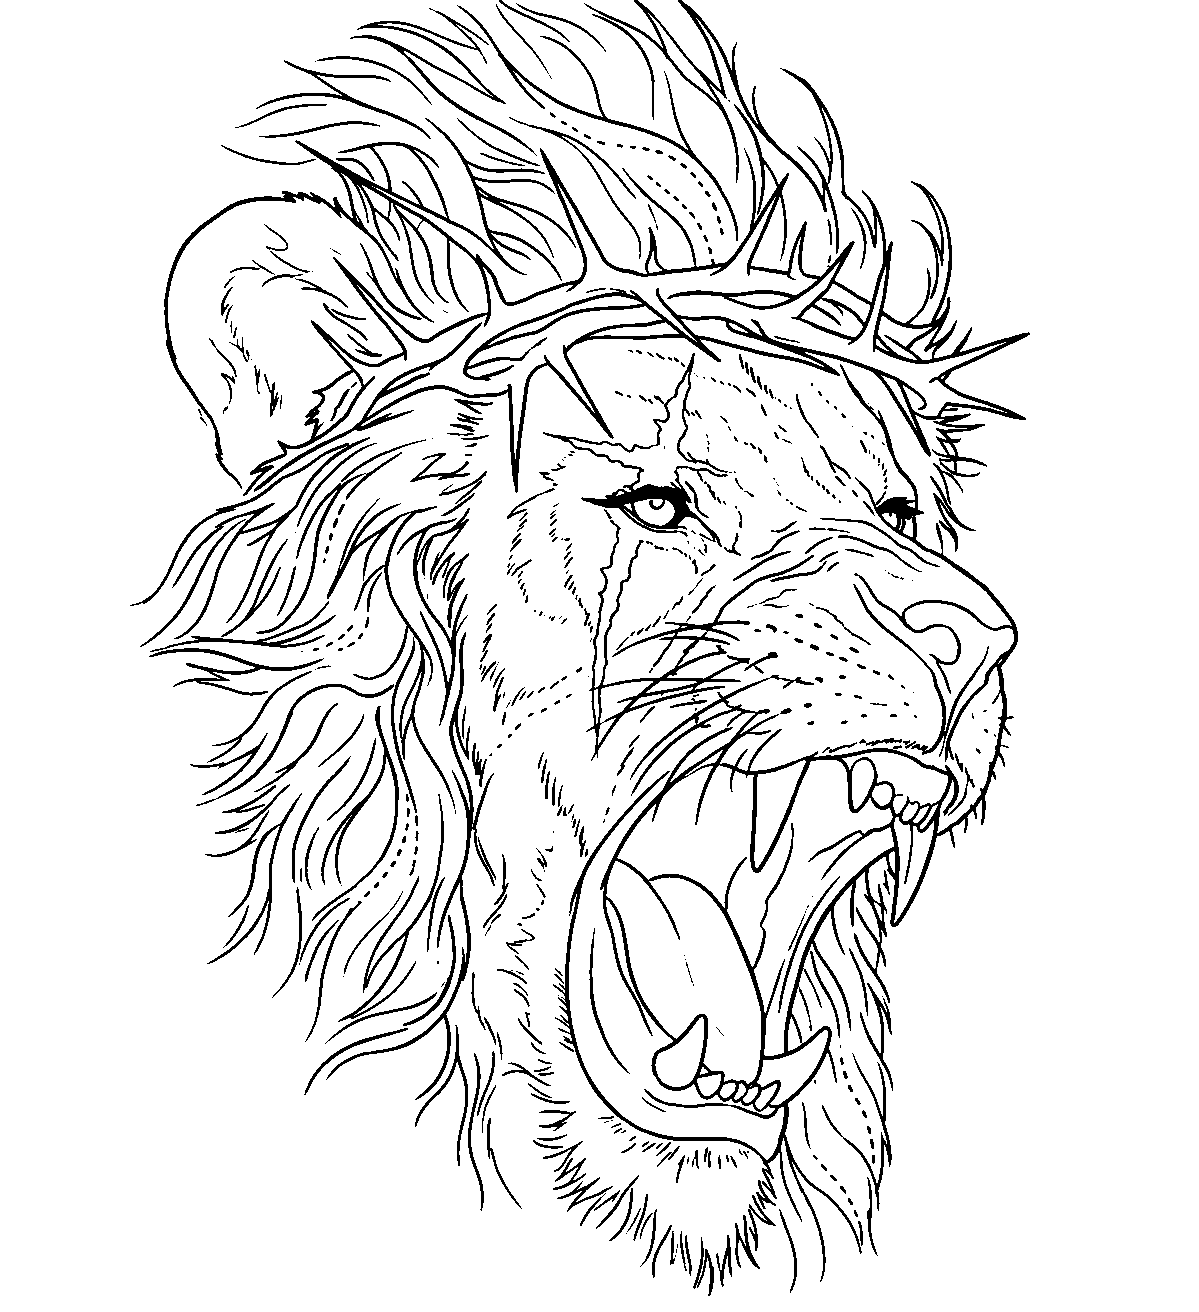
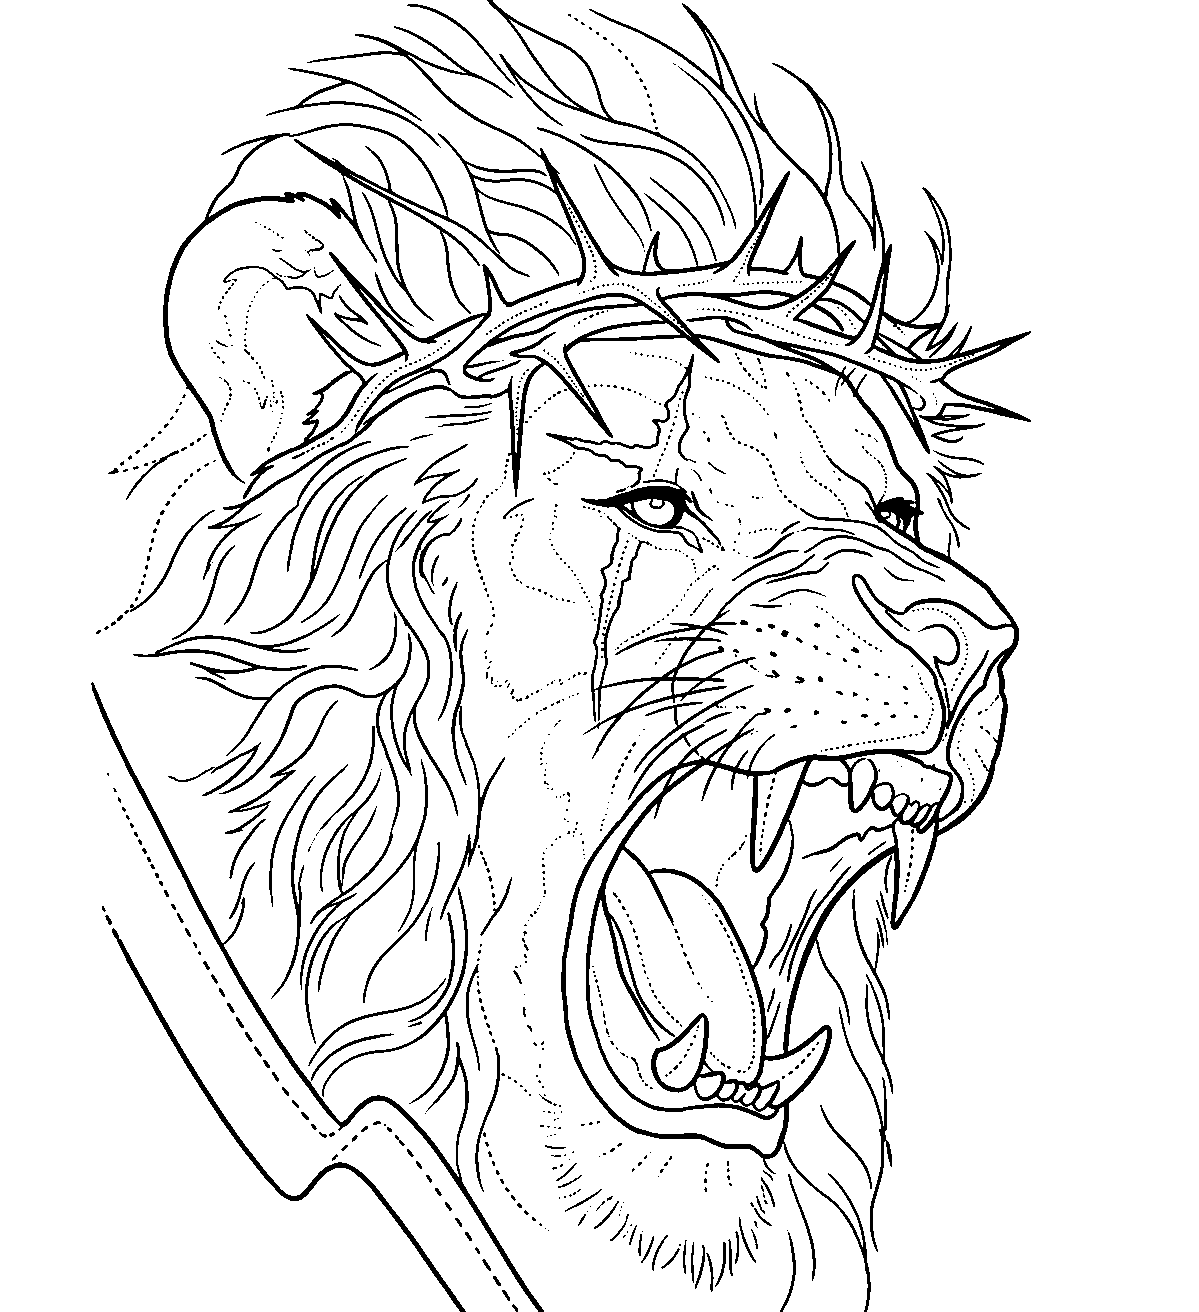
auto-commit for 76a97d15-59d3-4e81-a431-01266f0d393d

diff --git a/backend/static/prompt_preview_prescan.html b/backend/static/prompt_preview_prescan.html
@@ -1,10 +1,17 @@
 <!DOCTYPE html>
-<html><head><meta charset="utf-8"><title>Pre-Scan Visual Demo</title>
-<style>body{font-family:-apple-system,system-ui,sans-serif;background:#0a0a0a;color:#e7e2d4;margin:0;padding:24px}
-h1{color:#c9a227;margin:0 0 8px;letter-spacing:.4px}
+<html><head><meta charset="utf-8"><title>Pre-Scan Visual Demo — v2</title>
+<style>
+body{font-family:-apple-system,system-ui,sans-serif;background:#0a0a0a;color:#e7e2d4;margin:0;padding:24px;max-width:1400px;margin:0 auto}
+h1{color:#c9a227;margin:0 0 6px;letter-spacing:.4px}
 .note{color:#9ca3af;font-size:14px;margin-bottom:24px;line-height:22px}
-section{margin-bottom:32px}
-h2{color:#c9a227;font-size:18px;margin:24px 0 12px}
+.arch{background:#111;border:1px solid rgba(201,162,39,.25);border-radius:10px;padding:14px 16px;margin-bottom:28px;font-size:13px;line-height:21px;color:#c9c4b4}
+.arch b{color:#c9a227}
+.arch code{color:#7CC98E;font-size:12px}
+.fix{background:#121a12;border:1px solid rgba(124,201,142,.35);color:#b5d9bf}
+section{margin-bottom:36px}
+h2{color:#c9a227;font-size:18px;margin:24px 0 10px}
+.tags{color:#7CC98E;font-size:12px;margin:0 0 12px;font-family:ui-monospace,Menlo,monospace}
+.tags .k{color:#9ca3af}
 .grid{display:grid;grid-template-columns:repeat(3,1fr);gap:14px}
 .panel{background:#151515;border:1px solid rgba(201,162,39,.25);border-radius:10px;padding:12px}
 .panel h3{margin:0 0 8px;color:#c9a227;font-size:14px;letter-spacing:.4px}
@@ -12,27 +19,45 @@ h2{color:#c9a227;font-size:18px;margin:24px 0 12px}
 .panel p{color:#9ca3af;font-size:11px;line-height:17px;margin:8px 0 0}
 .after h3{color:#7CC98E}
 .before h3{color:#d9a275}
-@media(max-width:1100px){.grid{grid-template-columns:1fr 1fr}}</style></head>
+@media(max-width:1100px){.grid{grid-template-columns:1fr 1fr}}
+</style></head>
 <body>
-<h1>AI Pre-Scan — Before vs. After</h1>
-<p class="note">Each row: the reference photo, Heavy generated with the CURRENT production prompt (no pre-scan), and Heavy generated with PRE-SCAN rules injected (classification → rules prepended to the same prompt). Same image, same base prompt, only difference is whether image-specific rules were added.</p>
+<h1>AI Pre-Scan — v2 (Structure-Guidance Only)</h1>
+<p class="note">Same base prompt, same style ("Heavy"). Only difference: whether the structural-guidance preamble was prepended.</p>
+
+<div class="arch fix">
+  <b>What was wrong in v1 (regression fix):</b><br>
+  v1 preamble contained drawing-technique instructions ("ultra-fine line weight", "simpler in shadow regions", enhancement hints). The model interpreted those as softening directives and weakened the line hierarchy. Base prompt output was sharper than pre-scan output.
+  <br><br>
+  <b>v2 change:</b> the preamble is structural-guidance only. It names <i>what must be captured</i> from the reference, never <i>how to draw it</i>. Line weight, density, and hierarchy remain owned exclusively by the base prompt. Line-hierarchy preservation ("strong contours stay strong, fine detail never collapses") is now an explicit Layer 1 constraint. Enhancement-hints block removed entirely.
+</div>
+
+<div class="arch">
+  <b>Layer 1 — Universal Constraints</b> (hard, always applied): preserve subject count, pose, orientation, framing, gaze, identity, <b>line hierarchy</b>, and edge sharpness. No softening, blurring, denoising, or normalization. Never overrides the base prompt.<br>
+  <b>Layer 2 — Subject-Type Detection</b>: classifies into exactly one of <code>portrait / animal / object / landscape / stylized_artwork</code>.<br>
+  <b>Layer 3 — Structural Checklist</b>: features to CAPTURE from the reference for the detected category. No drawing-technique language.
+</div>
 
 <section>
 <h2>Skull Makeup Woman</h2>
+<p class="tags"><span class="k">pre-scan →</span> category=<b>portrait</b></p>
 <div class="grid">
   <div class="panel"><h3>Reference</h3><img src="/api/prompt-preview-asset/portrait3.jpg"/><p>Face paint, antler crown, braided dreads, dark background.</p></div>
-  <div class="panel before"><h3>BEFORE — No pre-scan</h3><img src="/api/prompt-preview-asset/prescan_skull_before.png"/><p>Current production prompt only.</p></div>
-  <div class="panel after"><h3>AFTER — Pre-scan active</h3><img src="/api/prompt-preview-asset/prescan_skull_after.png"/><p>Rules injected: preserve pose, face paint as outlines, no black fills, dense hair texture.</p></div>
+  <div class="panel before"><h3>BEFORE — No pre-scan</h3><img src="/api/prompt-preview-asset/prescan_skull_before.png"/><p>Base production prompt only.</p></div>
+  <div class="panel after"><h3>AFTER — v2 pre-scan</h3><img src="/api/prompt-preview-asset/prescan_skull_after.png"/><p>L1 universal + L3 portrait structural checklist. No drawing-technique directives.</p></div>
 </div>
 </section>
 
 <section>
 <h2>Roaring Lion + Thorn Crown</h2>
+<p class="tags"><span class="k">pre-scan →</span> category=<b>animal</b></p>
 <div class="grid">
   <div class="panel"><h3>Reference</h3><img src="/api/prompt-preview-asset/portrait4.jpg"/><p>Textured mane, thorn crown, open mouth with fangs, scar.</p></div>
-  <div class="panel before"><h3>BEFORE — No pre-scan</h3><img src="/api/prompt-preview-asset/prescan_lion_before.png"/><p>Current production prompt only.</p></div>
-  <div class="panel after"><h3>AFTER — Pre-scan active</h3><img src="/api/prompt-preview-asset/prescan_lion_after.png"/><p>Rules injected: one subject only, species-correct features, FULL mane with dense strands, preserve pose.</p></div>
+  <div class="panel before"><h3>BEFORE — No pre-scan</h3><img src="/api/prompt-preview-asset/prescan_lion_before.png"/><p>Base production prompt only.</p></div>
+  <div class="panel after"><h3>AFTER — v2 pre-scan</h3><img src="/api/prompt-preview-asset/prescan_lion_after.png"/><p>L1 universal + L3 animal structural checklist. No drawing-technique directives.</p></div>
 </div>
 </section>
+
+<p class="note" style="margin-top:32px">Demo-only. No production endpoint changes yet. Success criterion for promotion: AFTER must match or exceed BEFORE in line-hierarchy and edge clarity, while also capturing every structural feature the reference shows.</p>
 
 </body></html>

diff --git a/backend/scripts/prescan_visual_demo.py b/backend/scripts/prescan_visual_demo.py
@@ -1,5 +1,25 @@
-"""Side-by-side demo: for skull + lion references, generate Heavy BEFORE
-(no pre-scan) and AFTER (classification → rule injection via extra_preamble)."""
+"""Pre-Scan Visual Demo — 3-Layer Architecture (v2, structure-guidance only).
+
+REGRESSION FIX PASS (per user spec):
+  - Pre-scan is STRUCTURE GUIDANCE, not image cleaning.
+  - No drawing-technique instructions in the preamble. The base prompt already
+    owns line weight, density, and hierarchy. Pre-scan never re-specifies them.
+  - Layer 3 identifies WHAT structural features must be captured from the
+    reference; it never prescribes HOW to render them.
+  - Line-hierarchy preservation (strong contours stay strong, mid-detail stays
+    readable, fine detail never collapses to noise) is lifted into Layer 1.
+  - Enhancement-hints block removed entirely (it was the over-smoothing source).
+
+Layers:
+  L1 — Universal Constraints (hard, always applied).
+  L2 — Subject-Type Detection: exactly one of
+       {portrait, animal, object, landscape, stylized_artwork}.
+  L3 — Subject-Specific STRUCTURAL CHECKLIST (features to preserve from the
+       reference for the detected category). No drawing-technique language.
+
+Usage:
+    python scripts/prescan_visual_demo.py
+"""
 import asyncio, base64, json, os, re, time
 import httpx
 from emergentintegrations.llm.chat import LlmChat, UserMessage, ImageContent
@@ -11,77 +31,109 @@ IMAGES = {
     "lion": "/app/backend/static/portrait4.jpg",
 }
 
-TAG_TO_RULE = {
-    "symmetrical": "ONE instance only — no side-by-side duplication of the subject.",
-    "textured_fur": "Heavy detail: render FULL mane/fur with many individual flowing strands (dozens of visible hairs) and dotted light-to-dark contour guides across the coat.",
-    "dense_hair_texture": "Heavy detail: render FULL hair with many flowing strands and dotted light-to-dark transition guides.",
-    "dark_background": "The stencil background must be PURE WHITE regardless of how dark the reference photo is.",
-    "high_contrast": "Dark regions must be drawn as line work only — NEVER as solid black fills. Do not invert the image.",
-    "face_paint": "Face paint / makeup / skull-paint patterns must be drawn as outlines on the skin — do NOT replace with a clean un-painted face.",
-    "stylized_artwork": "Preserve the exact pose, framing, gaze direction, and every stylistic element visible in the source. Do not reinterpret.",
-    "animal_subject": "Subject is an animal. Preserve species-correct features (ears, muzzle, fangs, fur direction) exactly as shown.",
-    "detailed_features": "Capture every visible detail in the reference (teeth, scars, wrinkles, small accessories, texture).",
-}
-
-# Two-layer preamble: HARD constraints always lead, SOFT enhancements follow.
-# Intent: texture/detail rules must NEVER be allowed to alter subject count,
-# pose, orientation, framing, or identity. If any rule conflicts with another,
-# hard constraints win.
-HARD_CONSTRAINT_RULES = [
-    "ONE SUBJECT ONLY — exactly one instance of the subject filling the frame. Do NOT duplicate, mirror, tile, pair, split-panel, or render the subject twice side-by-side.",
-    "Preserve the EXACT framing and crop from the reference — do not re-center, zoom, expand, or recompose.",
-    "Preserve the EXACT head tilt and gaze direction shown in the reference.",
-    "Preserve the EXACT orientation and facing direction of the subject — do not rotate, mirror, or flip.",
-    "Preserve the EXACT placement of any facial markings, face paint, makeup, tattoos, or scars — render them as outlines in their original position.",
-    "Preserve the EXACT silhouette structure of any crown, antlers, hair, or accessories — the outer profile must match the reference.",
-    "Do NOT reinterpret the subject's identity, face shape, hairstyle, or adornments — replicate them as drawn line work.",
+# ---------------------------------------------------------------------------
+# LAYER 1 — Universal Constraints (applies to every image, never overridden).
+# Pure structural preservation. No drawing-technique directives.
+# ---------------------------------------------------------------------------
+LAYER1_UNIVERSAL = [
+    "Preserve the EXACT subject count from the reference. Do not duplicate, mirror, pair, tile, or split-panel the subject.",
+    "Preserve the EXACT pose, head tilt, and body posture shown in the reference.",
+    "Preserve the EXACT orientation and facing direction. Do not rotate or flip.",
+    "Preserve the EXACT framing and crop. Do not re-center, zoom, expand, or recompose.",
+    "Preserve the EXACT gaze direction of the subject.",
+    "Do not reinterpret, replace, or regenerate the subject's identity.",
+    # Line-hierarchy preservation — explicit counterweight to previous softening.
+    "Preserve the reference's LINE HIERARCHY exactly: strong contours in the reference must remain strong in the stencil, mid-detail must remain readable, fine detail must not collapse into uniform noise.",
+    "Do NOT soften, blur, denoise, or normalize edges. Do not reduce edge sharpness below what the reference shows.",
+    "Do not change, override, or weaken any line-weight, density, or hierarchy rules specified in the base prompt. This pre-scan adds structural constraints only.",
 ]
-TAG_TO_SOFT_RULE = {
-    "textured_fur": "Render mane/fur with many individual flowing strands in highlight regions; simplify shadow regions.",
-    "dense_hair_texture": "Render hair with many flowing strands concentrated in highlight regions; leave shadow regions simpler.",
-    "dark_background": "The stencil background must be PURE WHITE regardless of how dark the reference photo is.",
-    "high_contrast": "Dark regions in the source must become line work, NEVER solid black fills. Do not invert the image.",
-    "face_paint": "Face paint / makeup patterns must be drawn as outlines on the skin — do NOT omit or soften them.",
-    "animal_subject": "Preserve species-correct features (ears, muzzle, fangs, fur direction) exactly as shown in the reference.",
-    "detailed_features": "Capture fine visible details (teeth, scars, wrinkles, small accessories).",
-    "stylized_artwork": "",  # Intentionally empty — stylization is covered by hard constraints.
-    "symmetrical": "",        # Intentionally empty — covered by hard constraint #1.
-    "portrait": "",
+
+# ---------------------------------------------------------------------------
+# LAYER 3 — Subject-Specific STRUCTURAL CHECKLIST.
+# Each entry names a feature that must be CAPTURED in its exact reference form.
+# No language about line weight, stroke style, density, shading — the base
+# prompt already owns those and is the single authority.
+# ---------------------------------------------------------------------------
+LAYER3_RULES = {
+    "portrait": [
+        "Capture facial structure, proportions, and expression exactly as shown in the reference.",
+        "Capture every facial marking present in the reference (makeup, face paint, scars, tattoos, piercings) in its exact position.",
+        "Capture the exact shape and placement of each facial feature (eyes, brows, lips, nose, lashes) without altering proportions.",
+    ],
+    "animal": [
+        "Capture species-specific anatomy exactly (ear shape, muzzle, fangs, horns, mane, fur direction).",
+        "Capture head shape and distinguishing features exactly as shown.",
+        "Capture the reference's lighting-based coat variation — where the reference shows dense detail, the stencil must too; where it is simpler, keep it simpler.",
+    ],
+    "object": [
+        "Capture geometry, proportions, and symmetry exactly.",
+        "Capture every structural edge visible in the reference without distortion.",
+    ],
+    "landscape": [
+        "Capture the reference's spatial layout and depth exactly.",
+        "Capture the foreground / midground / background separation without removing compositional elements.",
+    ],
+    "stylized_artwork": [
+        "Capture the graphic shapes and contrast boundaries of the stylization exactly as drawn.",
+        "Capture stylized regions (face paint, graphic overlays) in their exact reference positions. Do not normalize, soften, or reinterpret them into a realistic version.",
+    ],
 }
 
-CLASSIFY_PROMPT = """Analyze this tattoo reference image. Return a JSON array of lowercase tags from this list (omit any that don't apply):
-portrait, animal_subject, stylized_artwork, landscape, object, symmetrical,
-face_paint, textured_fur, dense_hair_texture, dark_background, high_contrast,
-detailed_features, simple_subject
+ALLOWED_CATEGORIES = list(LAYER3_RULES.keys())
 
-Return ONLY the JSON array."""
+CLASSIFY_PROMPT = f"""Classify this tattoo reference image.
+
+Return ONLY JSON in this exact shape:
+{{"category": "<one of: {', '.join(ALLOWED_CATEGORIES)}"}}
+
+Rules:
+- "category" must be EXACTLY ONE value from the list. Pick the most accurate.
+- A human face or person photo is "portrait" (even if stylized with makeup).
+- A non-human creature is "animal".
+- Pure illustrations, graphic art, or drawings are "stylized_artwork".
+- No prose, no markdown, no explanation. JSON only."""
 
 
-async def classify(image_b64: str) -> list[str]:
+async def classify(image_b64: str) -> dict:
     chat = LlmChat(
         api_key=os.environ["EMERGENT_LLM_KEY"],
         session_id=f"prescan-{int(time.time()*1000)}",
-        system_message="You classify tattoo reference images. Return only JSON.",
+        system_message="You classify tattoo reference images. Return only JSON matching the schema.",
     ).with_model("gemini", "gemini-2.5-pro")
     msg = UserMessage(text=CLASSIFY_PROMPT, file_contents=[ImageContent(image_base64=image_b64)])
     resp = await chat.send_message(msg)
-    m = re.search(r"\[[^\]]*\]", resp, re.DOTALL)
-    return json.loads(m.group(0)) if m else []
+    m = re.search(r"\{.*\}", resp, re.DOTALL)
+    if not m:
+        return {"category": None}
+    try:
+        data = json.loads(m.group(0))
+    except json.JSONDecodeError:
+        return {"category": None}
+    cat = data.get("category") if data.get("category") in ALLOWED_CATEGORIES else None
+    return {"category": cat}
 
 
-def build_preamble(tags: list[str]) -> str:
-    soft_rules = [TAG_TO_SOFT_RULE[t] for t in tags if t in TAG_TO_SOFT_RULE and TAG_TO_SOFT_RULE[t]]
-    hard_block = "\n".join(f"- {r}" for r in HARD_CONSTRAINT_RULES)
-    soft_block = "\n".join(f"- {r}" for r in soft_rules) if soft_rules else "- (none)"
+def build_preamble(category: str | None) -> str | None:
+    """Compose the structural-guidance preamble. Returns None if classification failed."""
+    if not category:
+        return None
+
+    layer1 = "\n".join(f"- {r}" for r in LAYER1_UNIVERSAL)
+    layer3 = "\n".join(f"- {r}" for r in LAYER3_RULES[category])
+
     return (
-        "IMAGE-SPECIFIC DIRECTIVES FROM PRE-SCAN — apply to this exact reference image.\n"
-        "Two tiers. Tier 1 (HARD CONSTRAINTS) ALWAYS win any conflict with other rules.\n"
-        "Tier 2 (SOFT ENHANCEMENTS) are permitted only when they do not change subject count,\n"
-        "pose, orientation, framing, composition, or identity.\n\n"
-        "TIER 1 — HARD CONSTRAINTS (non-negotiable):\n"
-        + hard_block
-        + "\n\nTIER 2 — SOFT ENHANCEMENTS (apply only if they don't break Tier 1):\n"
-        + soft_block
+        "PRE-SCAN STRUCTURAL DIRECTIVES (image-specific, two layers).\n"
+        "Purpose: constrain the structure of the output so the base prompt's line-weight,\n"
+        "density, and hierarchy rules are applied to the CORRECT reference features.\n"
+        "This block adds constraints ONLY. It does not override, weaken, or replace any\n"
+        "drawing-technique rule from the base prompt. If any rule below appears to conflict\n"
+        "with the base prompt's line-weight or hierarchy guidance, the base prompt wins.\n\n"
+        "LAYER 1 — UNIVERSAL CONSTRAINTS (non-negotiable):\n"
+        f"{layer1}\n\n"
+        f"LAYER 2 — DETECTED SUBJECT TYPE: {category}\n\n"
+        f"LAYER 3 — STRUCTURAL CHECKLIST FOR {category.upper()} "
+        "(features to CAPTURE — not how to draw them):\n"
+        f"{layer3}"
     )
 
 
@@ -96,39 +148,49 @@ async def gen_heavy(client: httpx.AsyncClient, image_b64: str, preamble: str | N
     r = await client.post(f"{BACKEND}/api/ai-stencil", json=body, timeout=180.0)
     r.raise_for_status()
     b = r.json()["stencil_base64"]
-    if "," in b: b = b.split(",", 1)[1]
-    with open(out_path, "wb") as f: f.write(base64.b64decode(b))
+    if "," in b:
+        b = b.split(",", 1)[1]
+    with open(out_path, "wb") as f:
+        f.write(base64.b64decode(b))
 
 
-async def process_one(client, label: str, path: str) -> None:
+async def process_one(client: httpx.AsyncClient, label: str, path: str) -> dict:
     print(f"\n=== {label.upper()} ===")
     with open(path, "rb") as f:
         image_b64 = base64.b64encode(f.read()).decode()
 
     t0 = time.time()
-    tags = await classify(image_b64)
-    print(f"  classify: {time.time()-t0:.1f}s  tags={tags}")
-    preamble = build_preamble(tags)
-    print(f"  preamble length: {len(preamble)} chars")
+    classification = await classify(image_b64)
+    print(f"  classify: {time.time()-t0:.1f}s  result={classification}")
+    preamble = build_preamble(classification.get("category"))
+    if preamble:
+        print(f"  preamble length: {len(preamble)} chars")
+    else:
+        print("  preamble: NONE (classification failed — skipping AFTER pass)")
 
-    # Generate both in parallel
     before_path = f"/app/backend/static/prescan_{label}_before.png"
     after_path = f"/app/backend/static/prescan_{label}_after.png"
+
     t0 = time.time()
-    await asyncio.gather(
-        gen_heavy(client, image_b64, None, before_path),
-        gen_heavy(client, image_b64, preamble, after_path),
-    )
-    print(f"  both heavies: {time.time()-t0:.1f}s")
+    tasks = [gen_heavy(client, image_b64, None, before_path)]
+    if preamble:
+        tasks.append(gen_heavy(client, image_b64, preamble, after_path))
+    await asyncio.gather(*tasks)
+    print(f"  gen: {time.time()-t0:.1f}s")
     print(f"  saved {before_path}")
-    print(f"  saved {after_path}")
+    if preamble:
+        print(f"  saved {after_path}")
+
+    return {"label": label, "classification": classification}
 
 
 async def main():
-    # Skull-only pass for this iteration — per user request to validate the
-    # two-layer preamble hierarchy before reintroducing other references.
     async with httpx.AsyncClient() as client:
-        await process_one(client, "skull", IMAGES["skull"])
+        results = []
+        for label, path in IMAGES.items():
+            results.append(await process_one(client, label, path))
+    with open("/app/backend/static/prescan_summary.json", "w") as f:
+        json.dump(results, f, indent=2)
     print("\nAll done.")
 
 
